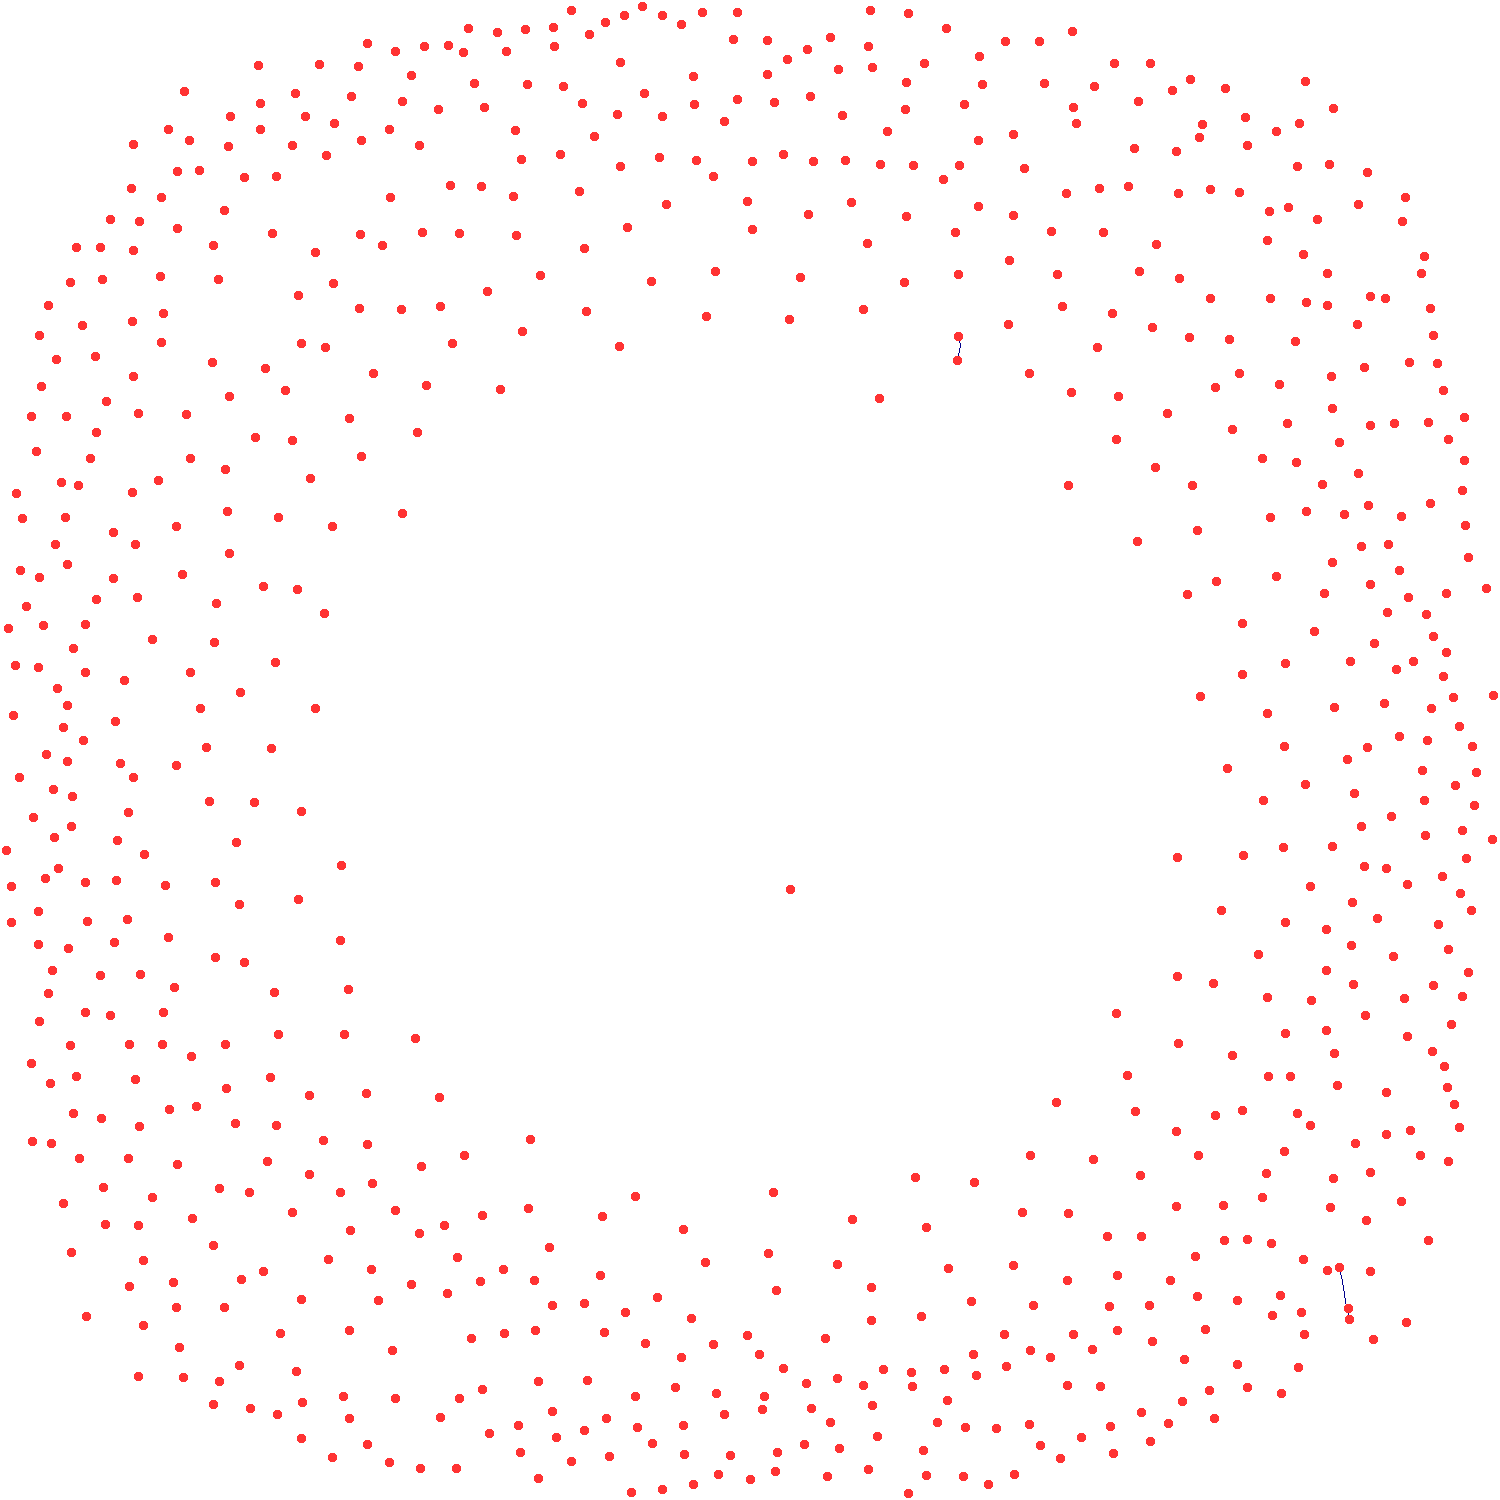
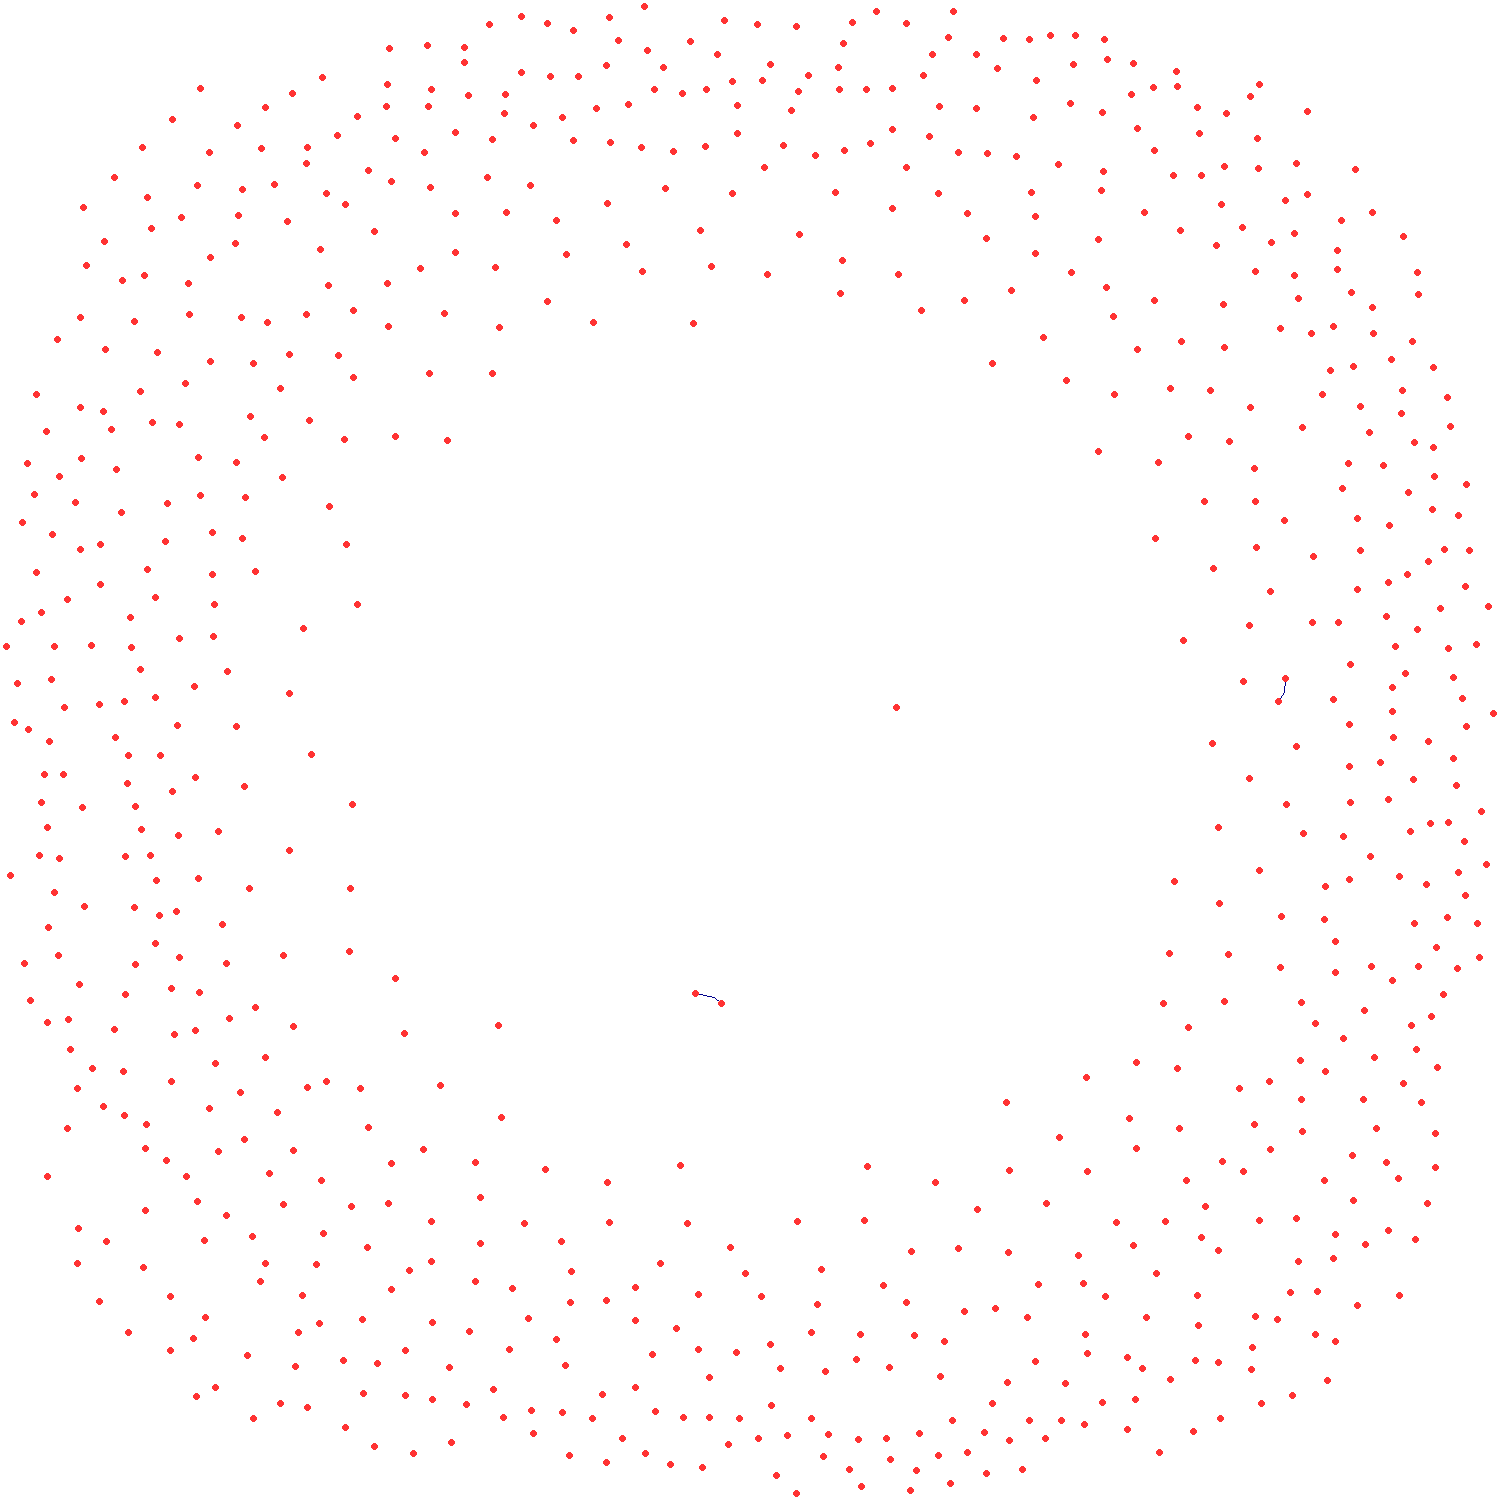
update graficos fb

diff --git a/experimentos/graf_facebook.py b/experimentos/graf_facebook.py
@@ -79,7 +79,7 @@ def graficar_force(A, name, path, size=(1500, 1500)):
     nplot = ds.transfer_functions.dynspread( # op: spread
             shader, 
             threshold=0.5, 
-            max_px=4,
+            max_px=3,
             shape='circle', 
             how=None) 
 
@@ -97,10 +97,12 @@ def graficar_force(A, name, path, size=(1500, 1500)):
 
 if __name__ == "__main__":
     
-    # A = IO.readMatriz(EGO.CLEAN_GRAFO)
-    # graficar_force(A, name='grafo_forceatlas2_facebook', path=EGO.DIR)
-    for i in range(5, 13):
+    A = IO.readMatriz(EGO.CLEAN_GRAFO)
+    graficar_circular(A, name='grafo_circular_facebook', path=EGO.DIR)
+    graficar_force(A, name='grafo_forceatlas2_facebook', path=EGO.DIR)
+    for i in range(0, 13):
         file = EGO.GRAFO_SIM.format(u=f"{i}.0")
         print('graficando:', file)
         A = IO.readMatriz(file)
+        graficar_circular(A, name=f"grafo_circular_{i}", path=EGO.DIR)
         graficar_force(A, name=f"grafo_forceatlas2_{i}", path=EGO.DIR)
